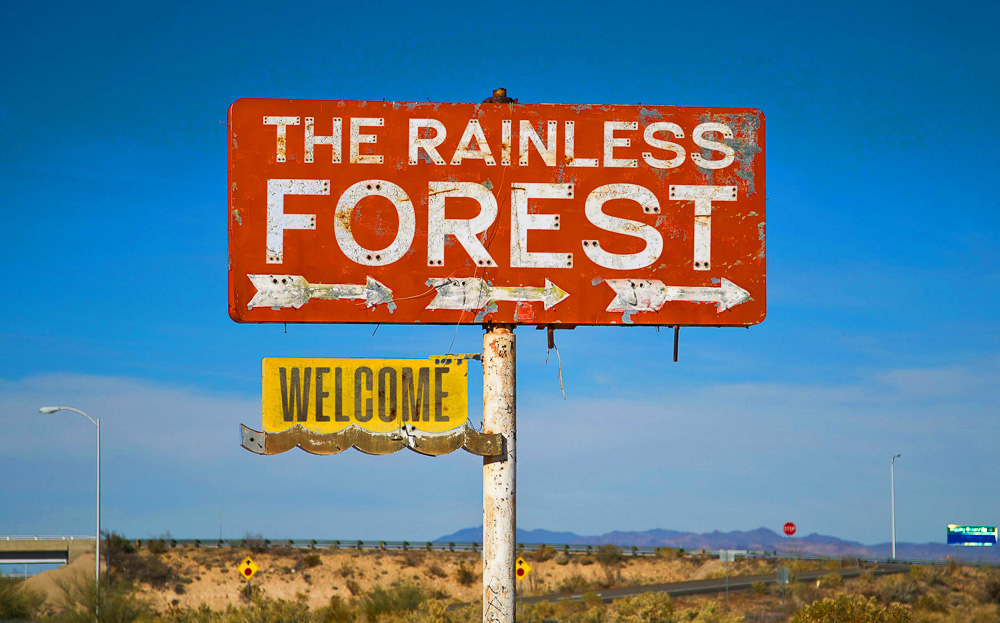
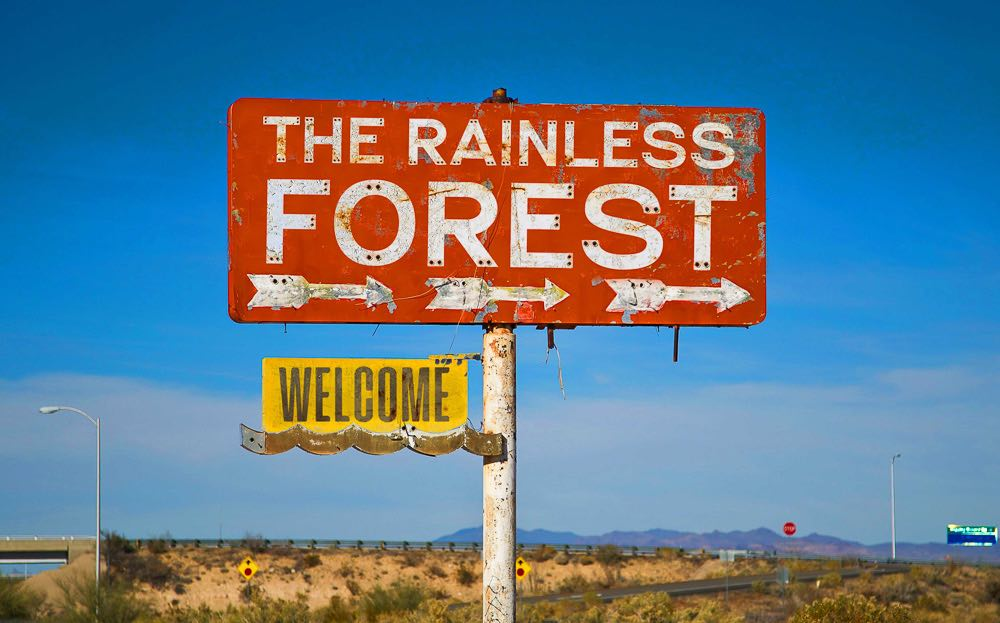
Reduce file size of all assets

diff --git a/content/life-in-droughtland/index.html b/content/life-in-droughtland/index.html
@@ -17,77 +17,77 @@
 
     <div class="pb-2">
         <div class="relative w-16 h-16 rounded-lg border-white-off border-2">
-          <img src="/images/comic-nodroughtland-art-101-green.png" class="relative z-10"/>
+          <img src="/images/comic-nodroughtland-art-101-green.jpg" class="relative z-10"/>
         </div>
     </div>
     <div class="pb-2">
       <div class="w-16 h-16 rounded-lg border-white-off border-2 overflow-hidden relative">
-        <img src="/images/comic-nodroughtland-commercial-shipping.png" />
+        <img src="/images/comic-nodroughtland-commercial-shipping.jpg" />
       </div>
     </div>
     <div class="pb-2">
       <div class="w-16 h-16 rounded-lg border-white-off border-2 overflow-hidden relative">
-        <img src="/images/comic-nodroughtland-displacement.png" />
+        <img src="/images/comic-nodroughtland-displacement.jpg" />
       </div>
     </div>
     <div class="pb-2">
       <div class="w-16 h-16 rounded-lg border-white-off border-2 overflow-hidden relative">
-        <img src="/images/comic-nodroughtland-food-security-flowers.png" />
+        <img src="/images/comic-nodroughtland-food-security-flowers.jpg" />
       </div>
     </div>
     <div class="pb-2">
       <div class="w-16 h-16 rounded-lg border-white-off border-2 overflow-hidden relative">
-        <img src="/images/comic-nodroughtland-food-security-heart.png" />
+        <img src="/images/comic-nodroughtland-food-security-heart.jpg" />
       </div>
     </div>
     <div class="pb-2">
       <div class="w-16 h-16 rounded-lg border-white-off border-2 overflow-hidden relative">
-        <img src="/images/comic-nodroughtland-food-security.png" />
+        <img src="/images/comic-nodroughtland-food-security.jpg" />
       </div>
     </div>
     <div class="pb-2">
       <div class="w-16 h-16 rounded-lg border-white-off border-2 overflow-hidden relative">
-        <img src="/images/comic-nodroughtland-gender-inequality.png" />
+        <img src="/images/comic-nodroughtland-gender-inequality.jpg" />
       </div>
     </div>
     <div class="pb-2">
       <div class="w-16 h-16 rounded-lg border-white-off border-2 overflow-hidden relative">
-        <img src="/images/comic-nodroughtland-gender-roles.png" />
+        <img src="/images/comic-nodroughtland-gender-roles.jpg" />
       </div>
     </div>
     <div class="pb-2">
       <div class="w-16 h-16 rounded-lg border-white-off border-2 overflow-hidden relative">
-        <img src="/images/comic-nodroughtland-indigenous-inclusion.png" />
+        <img src="/images/comic-nodroughtland-indigenous-inclusion.jpg" />
       </div>
     </div>
     <div class="pb-2">
       <div class="w-16 h-16 rounded-lg border-white-off border-2 overflow-hidden relative">
-        <img src="/images/comic-nodroughtland-kid-climate.png" />
+        <img src="/images/comic-nodroughtland-kid-climate.jpg" />
       </div>
     </div>
     <div class="pb-2">
       <div class="w-16 h-16 rounded-lg border-white-off border-2 overflow-hidden relative">
-        <img src="/images/comic-nodroughtland-kid-food-security.png" />
+        <img src="/images/comic-nodroughtland-kid-food-security.jpg" />
       </div>
     </div>
     <div class="pb-2">
       <div class="w-16 h-16 rounded-lg border-white-off border-2 overflow-hidden relative">
-        <img src="/images/comic-nodroughtland-kid-water-scarcity.png" />
+        <img src="/images/comic-nodroughtland-kid-water-scarcity.jpg" />
       </div>
     </div>
     <div class="pb-2">
       <div class="w-16 h-16 rounded-lg border-white-off border-2 overflow-hidden relative">
-        <img src="/images/comic-nodroughtland-sweat-and-swim.png" />
+        <img src="/images/comic-nodroughtland-sweat-and-swim.jpg" />
       </div>
     </div>
     <div class="pb-2">
       <div class="w-16 h-16 rounded-lg border-white-off border-2 overflow-hidden relative">
-        <img src="/images/comic-nodroughtland-sorry-buddy-plant.png" />
+        <img src="/images/comic-nodroughtland-sorry-buddy-plant.jpg" />
       </div>
     </div>
     <div class="pb-2">
       <div class="w-16 h-16 rounded-lg border-white-off border-2 overflow-hidden relative">
-        <img src="/images/comic-nodroughtland-water-scarcity.png" />
+        <img src="/images/comic-nodroughtland-water-scarcity.jpg" />
       </div>
     </div>
   </div>

diff --git a/content/_index.html b/content/_index.html
@@ -133,7 +133,7 @@
     </div>
     <div class="">
       <a href="/404/loner-visa">
-        <img src="images/droughtland-visa.png" class="mx-auto max-w-full px-4 transition-all opacity-80 hover:scale-125 rotate-[17deg]" />
+        <img src="images/droughtland-visa.jpg" class="mx-auto max-w-full px-4 transition-all opacity-80 hover:scale-125 rotate-[17deg]" />
       </a>
     </div>
   </div>

diff --git a/content/404/thirsty-brewery.md b/content/404/thirsty-brewery.md
@@ -1,6 +1,6 @@
 ---
 Title: Thirsty Brewery
 layout: 404
-image: '404-thirsty-brewery.png'
+image: '404-thirsty-beer.png'
 ---
 Anyone up for thirsty Thursday?... literally. The Thirsty Brewery ran out of water to make its beer, so this activity is temporarily unavailable.
